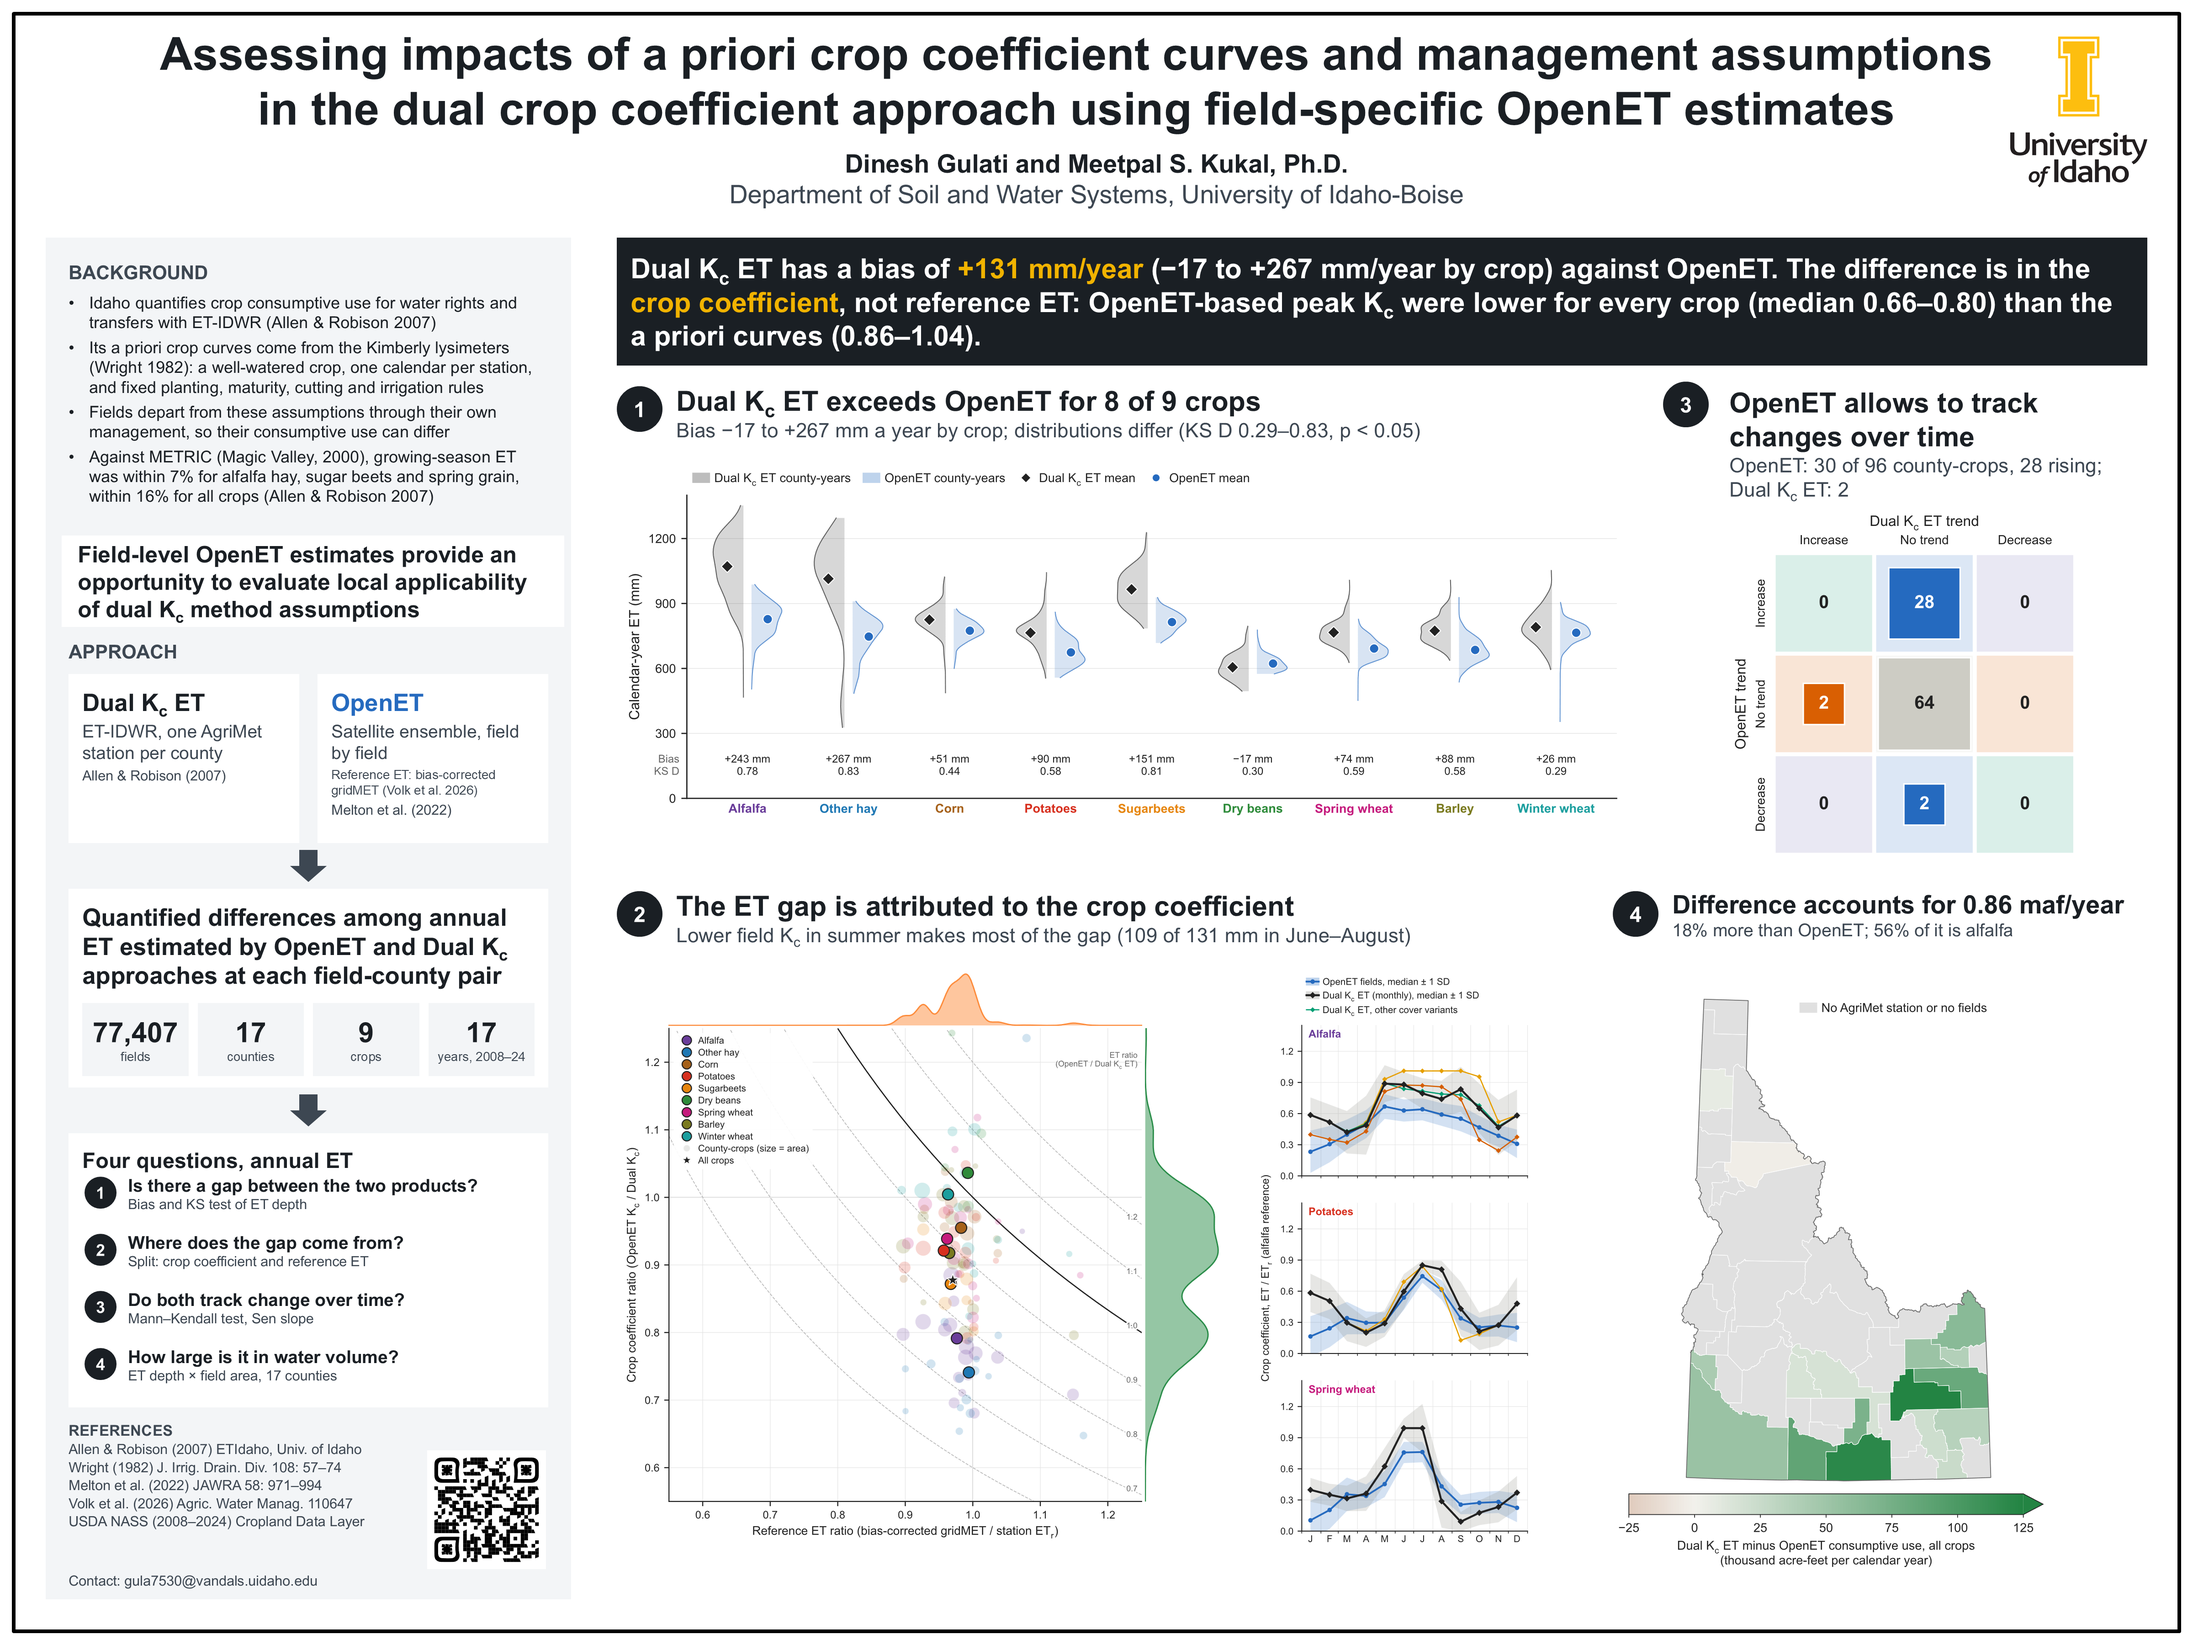
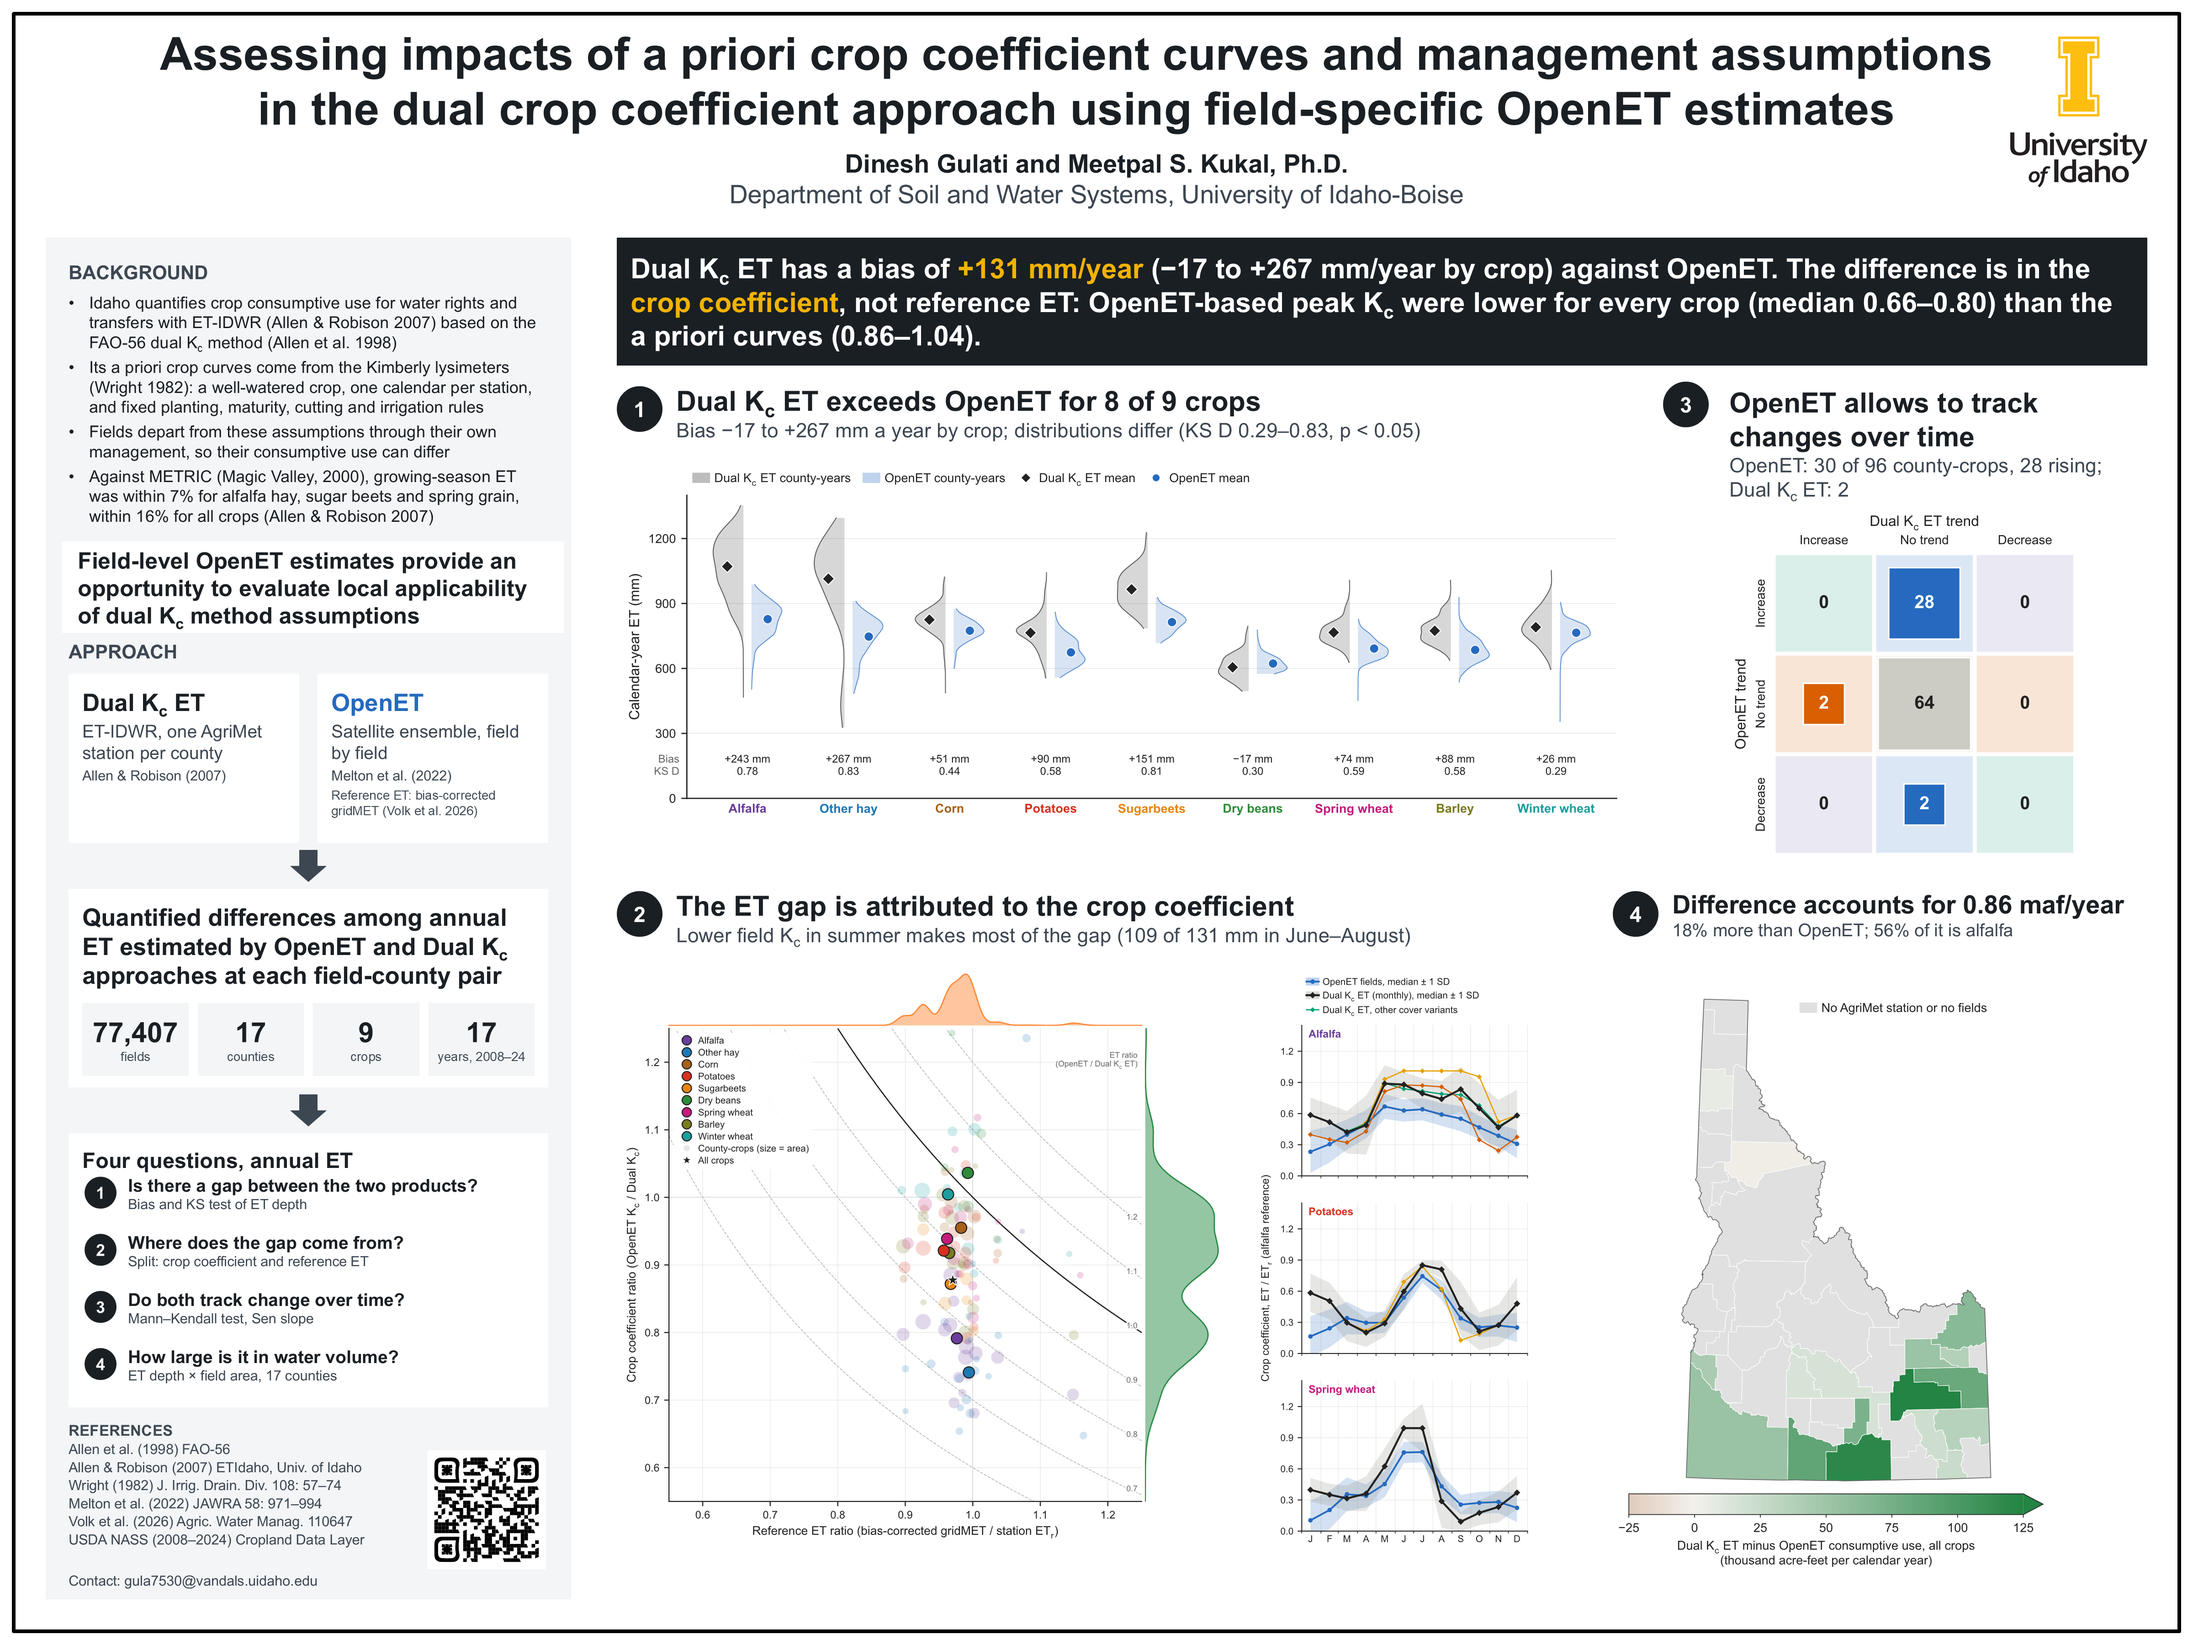
deploy: d3eee70a975cc079d1948b5c51d81fc1e9156101

Changed region(s): [[0.0312, 0.1867, 0.25, 0.3733], [0.0312, 0.8711, 0.1562, 0.9333], [0.1562, 0.4667, 0.2188, 0.4978]]

diff --git a/index.html b/index.html
@@ -19,7 +19,7 @@
   <link rel="preconnect" href="https://fonts.gstatic.com" crossorigin>
   <link rel="stylesheet" href="https://fonts.googleapis.com/css2?family=Inter:wght@400;500;600&family=Source+Serif+4:opsz,wght@8..60,500;8..60,600&display=swap">
   <link rel="stylesheet" href="https://cdnjs.cloudflare.com/ajax/libs/font-awesome/6.5.2/css/all.min.css">
-  <link rel="stylesheet" href="/static/css/site.css?v=20261113183049">
+  <link rel="stylesheet" href="/static/css/site.css?v=20261113200535">
 <script type="application/ld+json">{"@context": "https://schema.org", "@type": "Person", "name": "Dinesh Gulati", "jobTitle": "Ph.D. Candidate in Water Resources", "affiliation": {"@type": "CollegeOrUniversity", "name": "University of Idaho"}, "email": "gula7530@vandals.uidaho.edu", "url": "https://hydroagrinexus.com", "sameAs": ["https://www.linkedin.com/in/dinesh-gulati/", "https://github.com/dineshgulati933", "https://scholar.google.com/citations?user=g_QBa2kAAAAJ", "https://orcid.org/0009-0009-8264-1912"]}</script>
 </head>
 <body>
@@ -187,6 +187,6 @@
       </div>
     </div>
   </footer>
-  <script src="/static/js/site.js?v=20261113183049" defer></script>
+  <script src="/static/js/site.js?v=20261113200535" defer></script>
 </body>
 </html>

diff --git a/cv.html b/cv.html
@@ -19,7 +19,7 @@
   <link rel="preconnect" href="https://fonts.gstatic.com" crossorigin>
   <link rel="stylesheet" href="https://fonts.googleapis.com/css2?family=Inter:wght@400;500;600&family=Source+Serif+4:opsz,wght@8..60,500;8..60,600&display=swap">
   <link rel="stylesheet" href="https://cdnjs.cloudflare.com/ajax/libs/font-awesome/6.5.2/css/all.min.css">
-  <link rel="stylesheet" href="/static/css/site.css?v=20261113183049">
+  <link rel="stylesheet" href="/static/css/site.css?v=20261113200535">
 
 </head>
 <body>
@@ -284,6 +284,6 @@ PI: Meetpal Kukal. Role: Key personnel.      </li>
       </div>
     </div>
   </footer>
-  <script src="/static/js/site.js?v=20261113183049" defer></script>
+  <script src="/static/js/site.js?v=20261113200535" defer></script>
 </body>
 </html>

diff --git a/presentations.html b/presentations.html
@@ -19,7 +19,7 @@
   <link rel="preconnect" href="https://fonts.gstatic.com" crossorigin>
   <link rel="stylesheet" href="https://fonts.googleapis.com/css2?family=Inter:wght@400;500;600&family=Source+Serif+4:opsz,wght@8..60,500;8..60,600&display=swap">
   <link rel="stylesheet" href="https://cdnjs.cloudflare.com/ajax/libs/font-awesome/6.5.2/css/all.min.css">
-  <link rel="stylesheet" href="/static/css/site.css?v=20261113183049">
+  <link rel="stylesheet" href="/static/css/site.css?v=20261113200535">
 
 </head>
 <body>
@@ -422,6 +422,6 @@
       </div>
     </div>
   </footer>
-  <script src="/static/js/site.js?v=20261113183049" defer></script>
+  <script src="/static/js/site.js?v=20261113200535" defer></script>
 </body>
 </html>

diff --git a/publications.html b/publications.html
@@ -19,7 +19,7 @@
   <link rel="preconnect" href="https://fonts.gstatic.com" crossorigin>
   <link rel="stylesheet" href="https://fonts.googleapis.com/css2?family=Inter:wght@400;500;600&family=Source+Serif+4:opsz,wght@8..60,500;8..60,600&display=swap">
   <link rel="stylesheet" href="https://cdnjs.cloudflare.com/ajax/libs/font-awesome/6.5.2/css/all.min.css">
-  <link rel="stylesheet" href="/static/css/site.css?v=20261113183049">
+  <link rel="stylesheet" href="/static/css/site.css?v=20261113200535">
 
 </head>
 <body>
@@ -142,6 +142,6 @@
       </div>
     </div>
   </footer>
-  <script src="/static/js/site.js?v=20261113183049" defer></script>
+  <script src="/static/js/site.js?v=20261113200535" defer></script>
 </body>
 </html>

diff --git a/software.html b/software.html
@@ -19,7 +19,7 @@
   <link rel="preconnect" href="https://fonts.gstatic.com" crossorigin>
   <link rel="stylesheet" href="https://fonts.googleapis.com/css2?family=Inter:wght@400;500;600&family=Source+Serif+4:opsz,wght@8..60,500;8..60,600&display=swap">
   <link rel="stylesheet" href="https://cdnjs.cloudflare.com/ajax/libs/font-awesome/6.5.2/css/all.min.css">
-  <link rel="stylesheet" href="/static/css/site.css?v=20261113183049">
+  <link rel="stylesheet" href="/static/css/site.css?v=20261113200535">
 
 </head>
 <body>
@@ -136,6 +136,6 @@
       </div>
     </div>
   </footer>
-  <script src="/static/js/site.js?v=20261113183049" defer></script>
+  <script src="/static/js/site.js?v=20261113200535" defer></script>
 </body>
 </html>

diff --git a/404.html b/404.html
@@ -19,7 +19,7 @@
   <link rel="preconnect" href="https://fonts.gstatic.com" crossorigin>
   <link rel="stylesheet" href="https://fonts.googleapis.com/css2?family=Inter:wght@400;500;600&family=Source+Serif+4:opsz,wght@8..60,500;8..60,600&display=swap">
   <link rel="stylesheet" href="https://cdnjs.cloudflare.com/ajax/libs/font-awesome/6.5.2/css/all.min.css">
-  <link rel="stylesheet" href="/static/css/site.css?v=20261113183049">
+  <link rel="stylesheet" href="/static/css/site.css?v=20261113200535">
 
 </head>
 <body>
@@ -68,6 +68,6 @@
       </div>
     </div>
   </footer>
-  <script src="/static/js/site.js?v=20261113183049" defer></script>
+  <script src="/static/js/site.js?v=20261113200535" defer></script>
 </body>
 </html>

diff --git a/about.html b/about.html
@@ -19,7 +19,7 @@
   <link rel="preconnect" href="https://fonts.gstatic.com" crossorigin>
   <link rel="stylesheet" href="https://fonts.googleapis.com/css2?family=Inter:wght@400;500;600&family=Source+Serif+4:opsz,wght@8..60,500;8..60,600&display=swap">
   <link rel="stylesheet" href="https://cdnjs.cloudflare.com/ajax/libs/font-awesome/6.5.2/css/all.min.css">
-  <link rel="stylesheet" href="/static/css/site.css?v=20261113183049">
+  <link rel="stylesheet" href="/static/css/site.css?v=20261113200535">
 
 </head>
 <body>
@@ -90,6 +90,6 @@
       </div>
     </div>
   </footer>
-  <script src="/static/js/site.js?v=20261113183049" defer></script>
+  <script src="/static/js/site.js?v=20261113200535" defer></script>
 </body>
 </html>

diff --git a/conf/asabe26.html b/conf/asabe26.html
@@ -19,7 +19,7 @@
   <link rel="preconnect" href="https://fonts.gstatic.com" crossorigin>
   <link rel="stylesheet" href="https://fonts.googleapis.com/css2?family=Inter:wght@400;500;600&family=Source+Serif+4:opsz,wght@8..60,500;8..60,600&display=swap">
   <link rel="stylesheet" href="https://cdnjs.cloudflare.com/ajax/libs/font-awesome/6.5.2/css/all.min.css">
-  <link rel="stylesheet" href="/static/css/site.css?v=20261113183049">
+  <link rel="stylesheet" href="/static/css/site.css?v=20261113200535">
 
 </head>
 <body>
@@ -97,6 +97,6 @@
       </div>
     </div>
   </footer>
-  <script src="/static/js/site.js?v=20261113183049" defer></script>
+  <script src="/static/js/site.js?v=20261113200535" defer></script>
 </body>
 </html>

diff --git a/conf/openet26.html b/conf/openet26.html
@@ -19,7 +19,7 @@
   <link rel="preconnect" href="https://fonts.gstatic.com" crossorigin>
   <link rel="stylesheet" href="https://fonts.googleapis.com/css2?family=Inter:wght@400;500;600&family=Source+Serif+4:opsz,wght@8..60,500;8..60,600&display=swap">
   <link rel="stylesheet" href="https://cdnjs.cloudflare.com/ajax/libs/font-awesome/6.5.2/css/all.min.css">
-  <link rel="stylesheet" href="/static/css/site.css?v=20261113183049">
+  <link rel="stylesheet" href="/static/css/site.css?v=20261113200535">
 
 </head>
 <body>
@@ -97,6 +97,6 @@
       </div>
     </div>
   </footer>
-  <script src="/static/js/site.js?v=20261113183049" defer></script>
+  <script src="/static/js/site.js?v=20261113200535" defer></script>
 </body>
 </html>

diff --git a/conf/pnw_ws24.html b/conf/pnw_ws24.html
@@ -19,7 +19,7 @@
   <link rel="preconnect" href="https://fonts.gstatic.com" crossorigin>
   <link rel="stylesheet" href="https://fonts.googleapis.com/css2?family=Inter:wght@400;500;600&family=Source+Serif+4:opsz,wght@8..60,500;8..60,600&display=swap">
   <link rel="stylesheet" href="https://cdnjs.cloudflare.com/ajax/libs/font-awesome/6.5.2/css/all.min.css">
-  <link rel="stylesheet" href="/static/css/site.css?v=20261113183049">
+  <link rel="stylesheet" href="/static/css/site.css?v=20261113200535">
 
 </head>
 <body>
@@ -97,6 +97,6 @@
       </div>
     </div>
   </footer>
-  <script src="/static/js/site.js?v=20261113183049" defer></script>
+  <script src="/static/js/site.js?v=20261113200535" defer></script>
 </body>
 </html>

diff --git a/conf/wqw.html b/conf/wqw.html
@@ -19,7 +19,7 @@
   <link rel="preconnect" href="https://fonts.gstatic.com" crossorigin>
   <link rel="stylesheet" href="https://fonts.googleapis.com/css2?family=Inter:wght@400;500;600&family=Source+Serif+4:opsz,wght@8..60,500;8..60,600&display=swap">
   <link rel="stylesheet" href="https://cdnjs.cloudflare.com/ajax/libs/font-awesome/6.5.2/css/all.min.css">
-  <link rel="stylesheet" href="/static/css/site.css?v=20261113183049">
+  <link rel="stylesheet" href="/static/css/site.css?v=20261113200535">
 
 </head>
 <body>
@@ -97,6 +97,6 @@
       </div>
     </div>
   </footer>
-  <script src="/static/js/site.js?v=20261113183049" defer></script>
+  <script src="/static/js/site.js?v=20261113200535" defer></script>
 </body>
 </html>

diff --git a/conf/wqw26.html b/conf/wqw26.html
@@ -19,7 +19,7 @@
   <link rel="preconnect" href="https://fonts.gstatic.com" crossorigin>
   <link rel="stylesheet" href="https://fonts.googleapis.com/css2?family=Inter:wght@400;500;600&family=Source+Serif+4:opsz,wght@8..60,500;8..60,600&display=swap">
   <link rel="stylesheet" href="https://cdnjs.cloudflare.com/ajax/libs/font-awesome/6.5.2/css/all.min.css">
-  <link rel="stylesheet" href="/static/css/site.css?v=20261113183049">
+  <link rel="stylesheet" href="/static/css/site.css?v=20261113200535">
 
 </head>
 <body>
@@ -97,6 +97,6 @@
       </div>
     </div>
   </footer>
-  <script src="/static/js/site.js?v=20261113183049" defer></script>
+  <script src="/static/js/site.js?v=20261113200535" defer></script>
 </body>
 </html>
